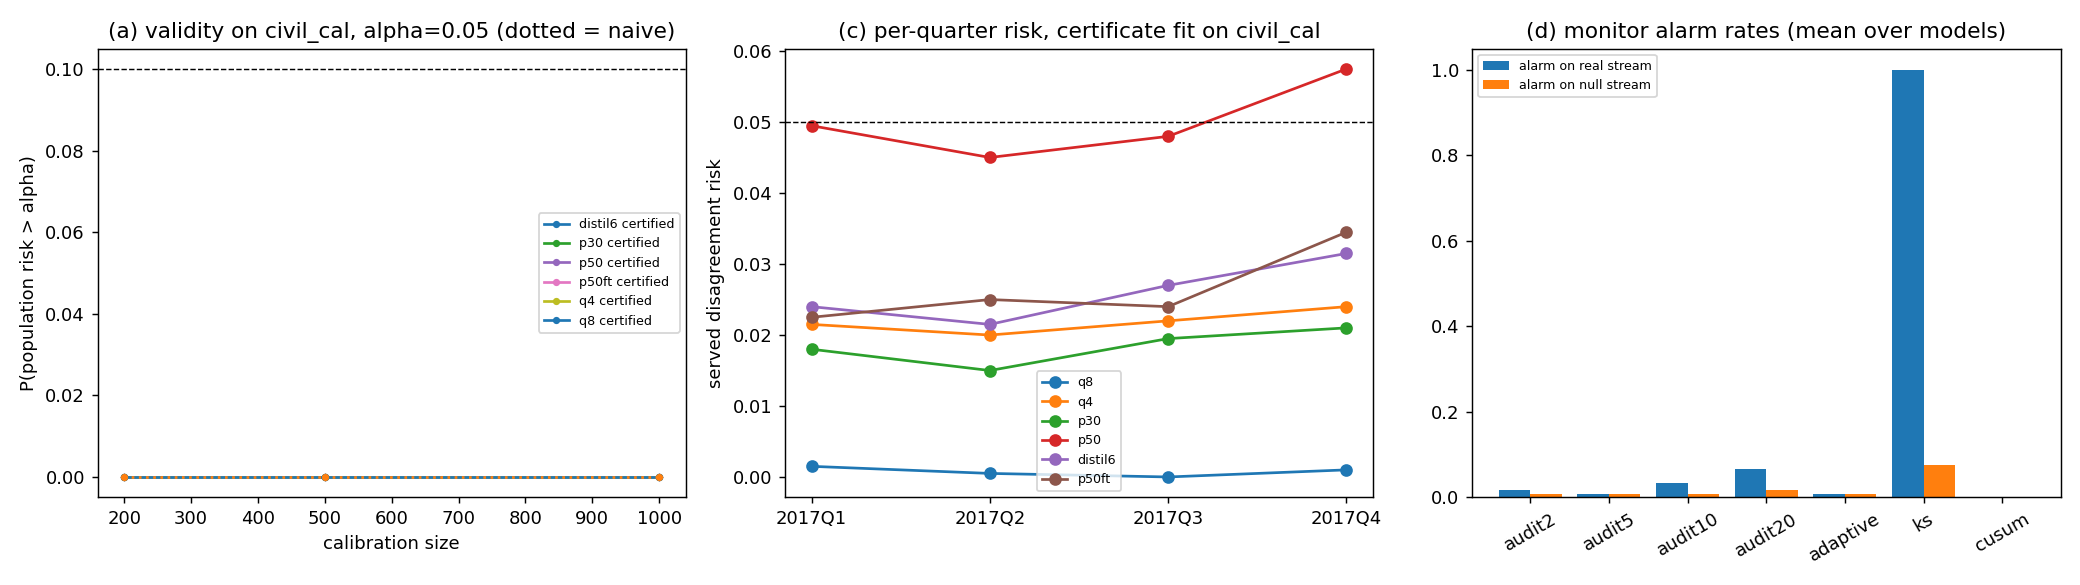
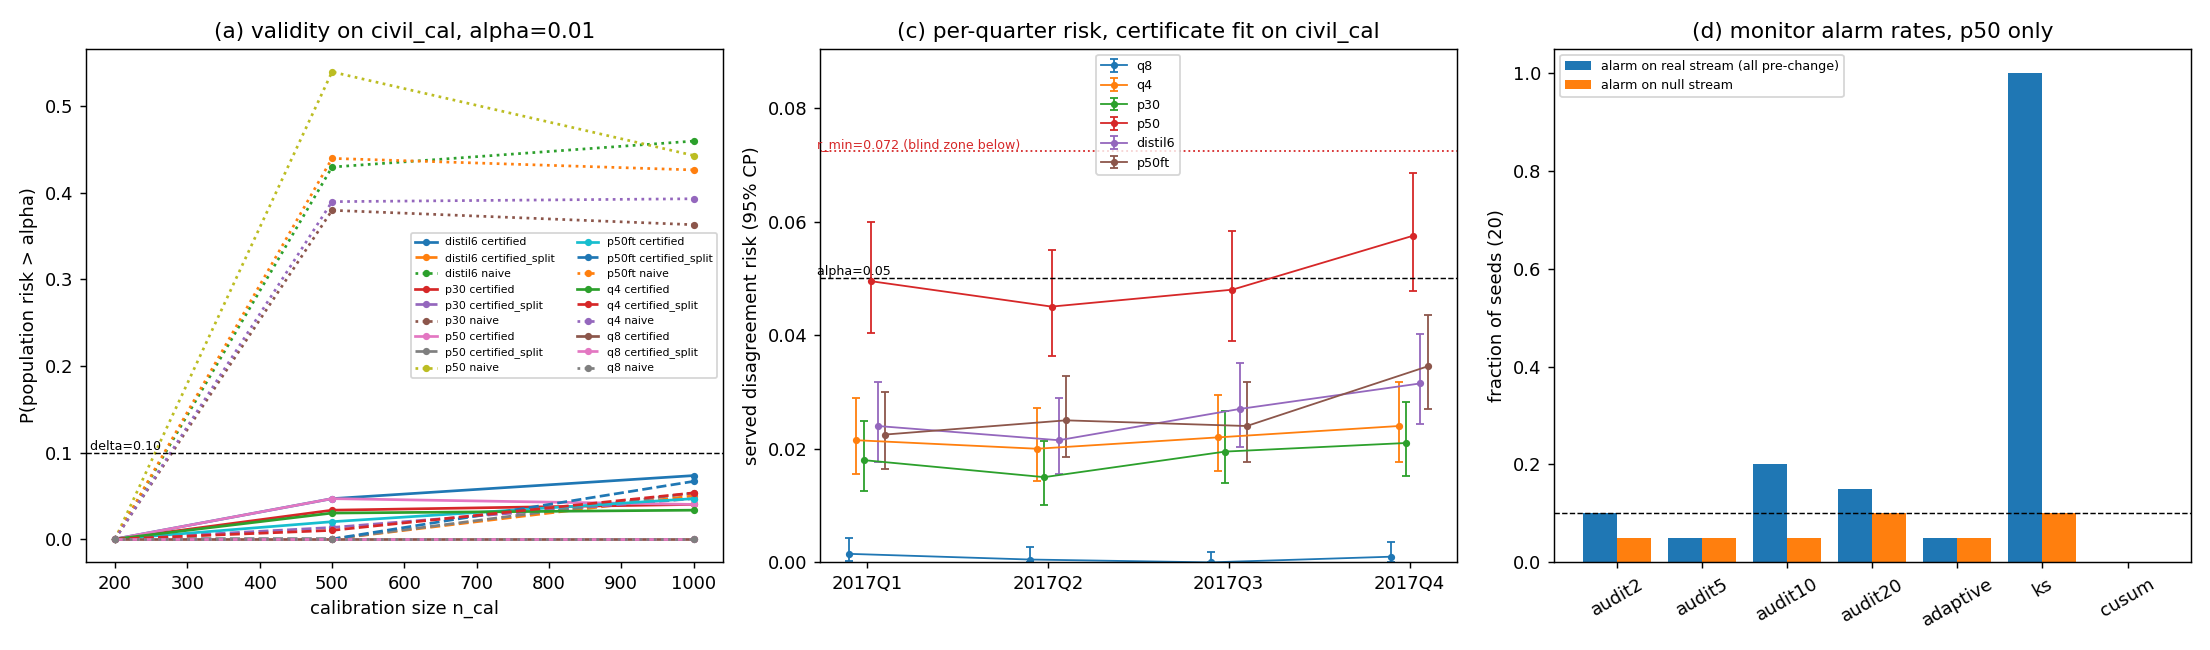
exp11: blind-zone explanation, CP intervals, figure fixes

diff --git a/experiments/real/exp11_civil.py b/experiments/real/exp11_civil.py
@@ -93,6 +93,25 @@ def degenerate(cert, s_cal):
     return (not cert.feasible) or cert.coverage(s_cal) < 0.05
 
 
+def clopper_pearson_ci(k, n, conf=0.95):
+    """Two-sided exact binomial interval (lo, hi) for k successes out of n."""
+    from scipy.stats import beta
+    a = (1 - conf) / 2
+    lo = 0.0 if k == 0 else float(beta.ppf(a, k, n - k + 1))
+    hi = 1.0 if k == n else float(beta.ppf(1 - a, k + 1, n - k))
+    return lo, hi
+
+
+def blind_zone_rmin(alpha=ALPHA, delta=DELTA):
+    """r_min: the smallest disagreement rate r > alpha at which Prop 2's per-audit log-drift is positive,
+    max_q KL_q(r) > 0 with KL_q(r) = r log(q/alpha) + (1-r) log((1-q)/(1-alpha)) = KL(r||alpha) - KL(r||q).
+    For r in (alpha, r_min] the audit martingale has no drift to detect and D(r) = inf (the blind zone)."""
+    from scipy.optimize import brentq
+    qs = [min(0.95, 2 * alpha), min(0.95, 4 * alpha)]
+    kap = lambda r: max(r * np.log(q / alpha) + (1 - r) * np.log((1 - q) / (1 - alpha)) for q in qs)  # noqa: E731
+    return float(brentq(kap, alpha + 1e-9, 0.5))
+
+
 def _variants_a():
     return [("certified", lambda a: SelectiveCertificate(a, DELTA, mode="same")),
             ("certified_split", lambda a: SelectiveCertificate(a, DELTA, mode="split")),
@@ -178,9 +197,12 @@ def part_c(S, D, models, cal, st, quarters):
         for q in qs:
             m = quarters == q
             served = sm & m
+            n_sv, k_sv = int(served.sum()), int(d_st[served].sum())
             risk = float(d_st[served].mean()) if served.any() else np.nan
+            ci_lo, ci_hi = clopper_pearson_ci(k_sv, n_sv) if n_sv else (np.nan, np.nan)
             cov = float(sm[m].mean())
-            row = {"model": c, "quarter": q, "n": int(m.sum()), "coverage": cov, "risk": risk,
+            row = {"model": c, "quarter": q, "n": int(m.sum()), "coverage": cov, "n_served": n_sv,
+                   "k_served": k_sv, "risk": risk, "ci_lo": ci_lo, "ci_hi": ci_hi,
                    "unc_dis": float(d_st[m].mean()), "exceeds_alpha": bool(risk > ALPHA),
                    "degenerate": deg}
             for bn, b in BUDGETS.items():
@@ -280,8 +302,11 @@ def part_e(S, D, meta, models, cal, st, quarters, certs, reps):
 
 
 # ---------------------------------------------------------------- plot --
-def plot_from_csv(out):
-    """Three-panel figure from the CSVs. Returns False when matplotlib is not installed."""
+def plot_from_csv(out, alpha_a=0.01):
+    """Three-panel figure from the CSVs. Returns False when matplotlib is not installed.
+    (a) validity at alpha_a (default 0.01, where naive thresholds violate), certified / split / naive per model;
+    (c) served risk per quarter with exact 95% Clopper-Pearson intervals and the blind-zone edge r_min;
+    (d) monitor alarm rates for p50 alone (the one model whose risk crosses alpha)."""
     try:
         import matplotlib
         matplotlib.use("Agg")
@@ -291,31 +316,45 @@ def plot_from_csv(out):
     sa = pd.read_csv(os.path.join(out, "exp11a_summary.csv"))
     qc = pd.read_csv(os.path.join(out, "exp11c_quarterly.csv"))
     md = pd.read_csv(os.path.join(out, "exp11d_monitors.csv"))
-    fig, axes = plt.subplots(1, 3, figsize=(16, 4.5))
+    fig, axes = plt.subplots(1, 3, figsize=(17, 5))
     ax = axes[0]
+    styles = {"certified": "-", "certified_split": "--", "naive": ":"}
     for c in sa.model.unique():
-        g = sa[(sa.model == c) & (sa.alpha == ALPHA)]
-        for nm, ls in [("certified", "-"), ("naive", ":")]:
-            gg = g[g.certifier == nm]
-            ax.plot(gg.n_cal, gg.violation, ls, marker="o", ms=3, label=f"{c} {nm}" if nm == "certified" else None)
+        g = sa[(sa.model == c) & (np.isclose(sa.alpha, alpha_a))]
+        for nm, ls in styles.items():
+            gg = g[g.certifier == nm].sort_values("n_cal")
+            ax.plot(gg.n_cal, gg.violation, ls, marker="o", ms=3, label=f"{c} {nm}")
     ax.axhline(DELTA, color="k", ls="--", lw=0.8)
-    ax.set_xlabel("calibration size"); ax.set_ylabel("P(population risk > alpha)")
-    ax.set_title("(a) validity on civil_cal, alpha=0.05 (dotted = naive)"); ax.legend(fontsize=7)
+    ax.text(ax.get_xlim()[0], DELTA, " delta=0.10", va="bottom", fontsize=7)
+    ax.set_xlabel("calibration size n_cal"); ax.set_ylabel("P(population risk > alpha)")
+    ax.set_title(f"(a) validity on civil_cal, alpha={alpha_a}")
+    ax.legend(fontsize=6, ncol=2)
     ax = axes[1]
-    for c in qc.model.unique():
-        gg = qc[qc.model == c]
-        ax.plot(range(len(gg)), gg.risk, marker="o", label=c)
+    rmin = blind_zone_rmin()
+    for i, c in enumerate(qc.model.unique()):
+        gg = qc[qc.model == c].reset_index(drop=True)
+        xx = np.arange(len(gg)) + (i - 2.5) * 0.04
+        yerr = np.vstack([gg.risk - gg.ci_lo, gg.ci_hi - gg.risk])
+        ax.errorbar(xx, gg.risk, yerr=yerr, marker="o", ms=3, capsize=2, lw=1, label=c)
     ax.axhline(ALPHA, color="k", ls="--", lw=0.8)
+    ax.text(-0.3, ALPHA, " alpha=0.05", va="bottom", fontsize=7)
+    ax.axhline(rmin, color="tab:red", ls=":", lw=1)
+    ax.text(-0.3, rmin, f" r_min={rmin:.3f} (blind zone below)", va="bottom", fontsize=7, color="tab:red")
     ax.set_xticks(range(len(gg))); ax.set_xticklabels(gg.quarter)
-    ax.set_ylabel("served disagreement risk"); ax.set_title("(c) per-quarter risk, certificate fit on civil_cal")
+    ax.set_ylim(0, rmin * 1.25)
+    ax.set_ylabel("served disagreement risk (95% CP)")
+    ax.set_title("(c) per-quarter risk, certificate fit on civil_cal")
     ax.legend(fontsize=7)
     ax = axes[2]
-    agg = md.groupby("monitor")[["alarm_real", "false_alarm"]].mean().reindex(MON_NAMES)
-    xx = np.arange(len(agg))
-    ax.bar(xx - 0.2, agg.alarm_real, 0.4, label="alarm on real stream")
-    ax.bar(xx + 0.2, agg.false_alarm, 0.4, label="alarm on null stream")
-    ax.set_xticks(xx); ax.set_xticklabels(agg.index, rotation=30)
-    ax.set_title("(d) monitor alarm rates (mean over models)"); ax.legend(fontsize=7)
+    p50 = md[md.model == "p50"].set_index("monitor").reindex(MON_NAMES)
+    xx = np.arange(len(p50))
+    ax.bar(xx - 0.2, p50.alarm_real, 0.4, label="alarm on real stream (all pre-change)")
+    ax.bar(xx + 0.2, p50.false_alarm, 0.4, label="alarm on null stream")
+    ax.axhline(DELTA, color="k", ls="--", lw=0.8)
+    ax.set_xticks(xx); ax.set_xticklabels(p50.index, rotation=30)
+    ax.set_ylabel("fraction of seeds (20)")
+    ax.set_title("(d) monitor alarm rates, p50 only")
+    ax.legend(fontsize=7)
     fig.tight_layout()
     path = os.path.join(out, "exp11_civil.png")
     fig.savefig(path, dpi=130)

diff --git a/tests/test_exp11.py b/tests/test_exp11.py
@@ -90,5 +90,47 @@ def test_exp11_end_to_end_smoke():
         q = pd.read_csv(os.path.join(out, "exp11c_quarterly.csv"))
         assert sorted(q.quarter.unique()) == ["2017Q1", "2017Q2", "2017Q3", "2017Q4"]
         assert set(q.model) == set(MODELS)
+        ok = q.risk.notna()
+        assert (q.ci_lo[ok] <= q.risk[ok] + 1e-12).all() and (q.risk[ok] <= q.ci_hi[ok] + 1e-12).all()
+        assert {"n_served", "k_served", "ci_lo", "ci_hi"} <= set(q.columns)
     finally:
         shutil.rmtree(d)
+
+
+def test_clopper_pearson_ci():
+    # k = 0 of n = 10: lower bound 0, upper bound 1 - 0.025**(1/10)  (exact two-sided 95%)
+    lo, hi = ex11.clopper_pearson_ci(0, 10)
+    assert lo == 0.0 and abs(hi - (1 - 0.025 ** 0.1)) < 1e-9
+    lo, hi = ex11.clopper_pearson_ci(10, 10)
+    assert hi == 1.0 and abs(lo - 0.025 ** 0.1) < 1e-9
+    lo, hi = ex11.clopper_pearson_ci(100, 2000)
+    assert lo < 0.05 < hi and abs((lo + hi) / 2 - 0.05) < 0.01
+
+
+def test_blind_zone_rmin():
+    # r_min = max_q-root of KL_q(r) for alpha = 0.05, q in {2 alpha, 4 alpha}: about 0.0724
+    r = ex11.blind_zone_rmin()
+    assert abs(r - 0.0724) < 1e-3, r
+    from tec.monitor import expected_audit_delay
+    assert expected_audit_delay(r - 0.002, 0.05, 0.10, 0.10, 1.0) == float("inf")
+    assert np.isfinite(expected_audit_delay(r + 0.002, 0.05, 0.10, 0.10, 1.0))
+
+
+def test_simulate_policy_pinned():
+    # Regression pin of exp6 simulate_policy (shared with exp11e): fixed seeds, tiny stream.
+    # Stream: 300 rows with no drift, then 300 rows with disagreement rate 0.25; disagreement-free calibration.
+    import exp6_real_models as ex6
+    rs = np.random.default_rng(0)
+    n = 600
+    s = rs.uniform(0, 1, n)
+    d = (rs.uniform(0, 1, n) < np.where(np.arange(n) < 300, 0.0, 0.25)).astype(int)
+    sc = np.random.default_rng(1).uniform(0, 1, 400)
+    dc = np.zeros(400, int)
+    cases = {"always-C": (600, 0, 0, 0), "static": (598, 2, 0, 280),
+             "audit10": (505, 144, 1, 63109), "adaptive": (598, 14, 0, 3266)}
+    for pol, (sv_n, lc_n, nre, lc_idx) in cases.items():
+        servedC, Lc, nr = ex6.simulate_policy(pol, s, d, sc, dc, 0.05, 0.10 if pol == "audit10" else 0.0, seed=0)
+        assert int(servedC.sum()) == sv_n, (pol, int(servedC.sum()))
+        assert int(Lc.sum()) == lc_n, (pol, int(Lc.sum()))
+        assert nr == nre, (pol, nr)
+        assert int(np.flatnonzero(Lc).sum()) == lc_idx, (pol, int(np.flatnonzero(Lc).sum()))
